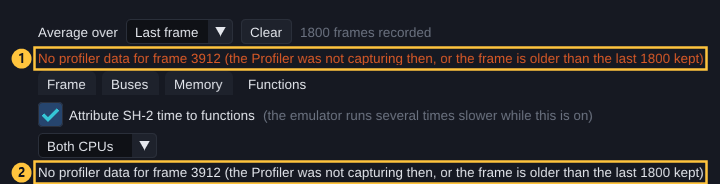
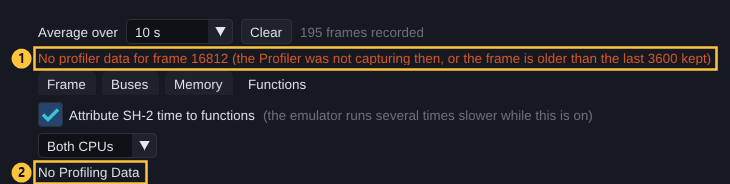
Profiler guide: span cut at a rewind, 3600 records, No Profiling Data
The "After a rewind" bullet now describes what the panel does: the span
stops at the rewind, the status line says "Averaging k of n frames", and
the strips break at a faint divider. New screenshot of that, header
recaptured at 3600 frames, and the no-data screenshot retaken with the tab
reading "No Profiling Data". Two new rows in the messages table.

diff --git a/SaturnExplorer/web/guides/profiler-reference.html b/SaturnExplorer/web/guides/profiler-reference.html
@@ -127,13 +127,13 @@ footer { font-size: 0.86rem; color: var(--muted); border-top: 1px solid var(--ru
 <section id="top">
   <h2>Top bar and tabs</h2>
   <figure class="shot narrow">
-    <a class="full" href="img/profiler/header.png" title="Open full size"><img src="img/profiler/header.png" width="746" height="98" alt="The Profiler's top bar: an Average over list set to 1 s, a Clear button, the text 1800 frames recorded, an empty status line, and the four tabs Frame, Buses, Memory and Functions. Yellow numbered boxes mark each part."></a>
+    <a class="full" href="img/profiler/header.png" title="Open full size"><img src="img/profiler/header.png" width="746" height="98" alt="The Profiler's top bar: an Average over list set to 1 s, a Clear button, the text 3600 frames recorded, an empty status line, and the four tabs Frame, Buses, Memory and Functions. Yellow numbered boxes mark each part."></a>
   </figure>
   <ol class="callouts">
     <li><b>Average over.</b> The time span every figure on the Frame, Buses and Functions tabs is averaged over: <span class="ui">Last frame</span>, <span class="ui">0.5 s</span> (30 frames), <span class="ui">1 s</span> (60), <span class="ui">5 s</span> (300) or <span class="ui">10 s</span> (600). Short spans react quickly; long ones smooth out spikes. The History strips always show the newest 600 frames, whatever this is set to.</li>
     <li><b>Clear.</b> Forgets every recorded frame and the Memory tab's last sample. Use it to start a measurement fresh, for example just before the part of the game you care about.</li>
     <li><b>N frames recorded.</b> How many frames the panel holds, up to 3600. A span longer than this averages only the frames that exist.</li>
-    <li><b>Status line.</b> One line kept free under the top bar. It is empty while the game runs live, and shows the scrubbed frame or a "no data" message when you scrub back (see <a href="#scrub">Scrubbing back</a>). It always takes the same space, so nothing below it moves.</li>
+    <li><b>Status line.</b> One line kept free under the top bar. It is empty while the game runs live, and shows the scrubbed frame or a "no data" message when you scrub back, or a note when a rewind shortened the averaging span (see <a href="#scrub">Scrubbing back</a>). It always takes the same space, so nothing below it moves. Text too long for the panel ends in "..."; hover over it for the whole line.</li>
     <li><b>Tabs.</b> Frame, Buses, Memory and Functions, described below.</li>
   </ol>
   <figure class="shot narrow">
@@ -311,7 +311,7 @@ footer { font-size: 0.86rem; color: var(--muted); border-top: 1px solid var(--ru
     <li><b>Status line.</b> A line under the top bar reads <code>Showing frame N (scrubbed), newest is M</code>. It is empty while live, and when you are scrubbed to the newest frame.</li>
     <li><b>History strips.</b> A red line with a small triangle marks the scrubbed frame. If that frame is older than the strip's 600 frames, the strip shifts back so the mark stays in view, and its heading says <span class="ui">the red mark is the frame shown</span>.</li>
     <li><b>No data.</b> If the panel has no record of that frame, the tab says <code>No Profiling Data</code>, the status line gives the frame and the reason (<code>No profiler data for frame N (…)</code>), and no figures are drawn. Frames far back in the history can be like this; it is expected. This happens when the Profiler was not capturing then (for example after <span class="ui">Clear</span>), when the frame is older than the 3600 kept, or when the emulator does not report which timeline a frame belongs to.</li>
-    <li><b>After a rewind.</b> Frames are matched by timeline and frame number together, so a frame replayed after a rewind (<span class="ui">Play From Here</span>) is never shown with the figures of the frame it replaced. A span longer than <span class="ui">Last frame</span> that ends shortly after the rewind point can still reach back into frames recorded before the rewind, and the History strips still show those older frames to the left. For a frame just after a rewind, read it with <span class="ui">Last frame</span>.</li>
+    <li><b>After a rewind.</b> Frames are matched by timeline and frame number together, so a frame replayed after a rewind (<span class="ui">Play From Here</span>) or a state load is never shown with the figures of the frame it replaced. An <span class="ui">Average over</span> span stops at the rewind: it averages only the frames since then, live or scrubbed, on every tab. When that cut the span short, the status line adds <code>Averaging k of n frames (the rest are from before a rewind or state load)</code>, after the scrubbed-frame note if there is one; <span class="ui">Function attribution: on in k of k frames</span> and the other "of n" counts use the shortened span too. In the History strips the line breaks at the rewind and a faint vertical divider marks it.</li>
     <li><b>Memory tab.</b> Unchanged: it already samples the memory of whichever frame is displayed.</li>
   </ul>
   <figure class="shot">
@@ -319,8 +319,12 @@ footer { font-size: 0.86rem; color: var(--muted); border-top: 1px solid var(--ru
     <figcaption>V1 scrubbed to frame 4282, the third frame of its function phase, with <span class="ui">Average over</span> at <span class="ui">Last frame</span>. The status line names the frame (1) and the red mark shows where it sits in the History strips (2), just after the busy-loop phase ended.</figcaption>
   </figure>
   <figure class="shot">
-    <a class="full" href="img/profiler/scrub-no-data.png" title="Open full size"><img src="img/profiler/scrub-no-data.png" width="720" height="184" alt="The Functions tab scrubbed to a frame with no record: the status line, in orange, and the tab both read No profiler data for frame 3912 (the Profiler was not capturing then, or the frame is older than the last 1800 kept)."></a>
-    <figcaption>Scrubbed to a frame the panel no longer holds: the status line (1) and the tab (2) say so, and no figures are drawn. The frame history can reach further back than the Profiler's 1800 records, because the history does not always keep every frame, so its oldest frames often show this.</figcaption>
+    <a class="full" href="img/profiler/scrub-no-data.png" title="Open full size"><img src="img/profiler/scrub-no-data.png" width="730" height="184" alt="The Functions tab scrubbed to a frame with no record: the status line, in orange, reads No profiler data for frame 16812 (the Profiler was not capturing then, or the frame is older than the last 3600 kept), and the tab reads No Profiling Data."></a>
+    <figcaption>Scrubbed to a frame from before <span class="ui">Clear</span>: the status line gives the frame and the reason (1), the tab says <code>No Profiling Data</code> (2), and no figures are drawn.</figcaption>
+  </figure>
+  <figure class="shot">
+    <a class="full" href="img/profiler/scrub-cut-span.png" title="Open full size"><img src="img/profiler/scrub-cut-span.png" width="1064" height="530" alt="The Frame tab scrubbed to frame 14211 with Average over at 10 s, 78 frames after a rewind. The status line reads Showing frame 14211 (scrubbed), newest is 14327; Averaging 78 of 600 frames (the rest are from before a rewind or state load). A faint vertical divider crosses the three History strips at the rewind, left of the red mark."></a>
+    <figcaption>V1 rewound with <span class="ui">Play From Here</span> to frame 14133, run on, then scrubbed to 14211 with <span class="ui">Average over</span> at <span class="ui">10 s</span>. The span stops at the rewind and the status line says so (1): 78 of 600 frames. The faint divider (2) marks the rewind in the strips; to its left are the frames recorded before it, whose slave SH-2 work is not counted in the figures above.</figcaption>
   </figure>
 </section>
 
@@ -338,6 +342,8 @@ footer { font-size: 0.86rem; color: var(--muted); border-top: 1px solid var(--ru
       <tr><td><i>Area</i> (size) not in this capture</td><td>Memory</td><td>The loaded source does not contain that RAM area, for example a dump without sound RAM.</td></tr>
       <tr><td>(needs a live emulator)</td><td>Functions</td><td>The checkbox is greyed out until you connect.</td></tr>
       <tr><td>(needs a Mednafen built with --enable-debugger and the current patch)</td><td>Functions</td><td>The connected Mednafen cannot time functions. Rebuild it with the installer.</td></tr>
+      <tr><td>No Profiling Data</td><td>Frame, Buses, Functions</td><td>Scrubbed to a frame the panel has no record of. The status line above gives the frame and the reason. See <a href="#scrub">Scrubbing back</a>.</td></tr>
+      <tr><td>Averaging k of n frames (the rest are from before a rewind or state load)</td><td>Status line</td><td>A rewind or state load cut the <span class="ui">Average over</span> span short: the figures average only the k frames since it.</td></tr>
       <tr><td>No attributed frames in this window.</td><td>Functions</td><td>Attribution is off, or was off for the whole span.</td></tr>
       <tr><td>Waiting for attributed frames...</td><td>Functions</td><td>Attribution is on but no timed frame has arrived yet. It also stays while the emulator is paused or at a breakpoint. There is no separate "pending" indicator.</td></tr>
       <tr><td>No frame in this window carries the per-CPU split of the unlisted time (an older emulator). Choose both CPUs to see its functions.</td><td>Functions</td><td>With Master or Slave chosen on an older emulator. Choose <span class="ui">Both CPUs</span>.</td></tr>
